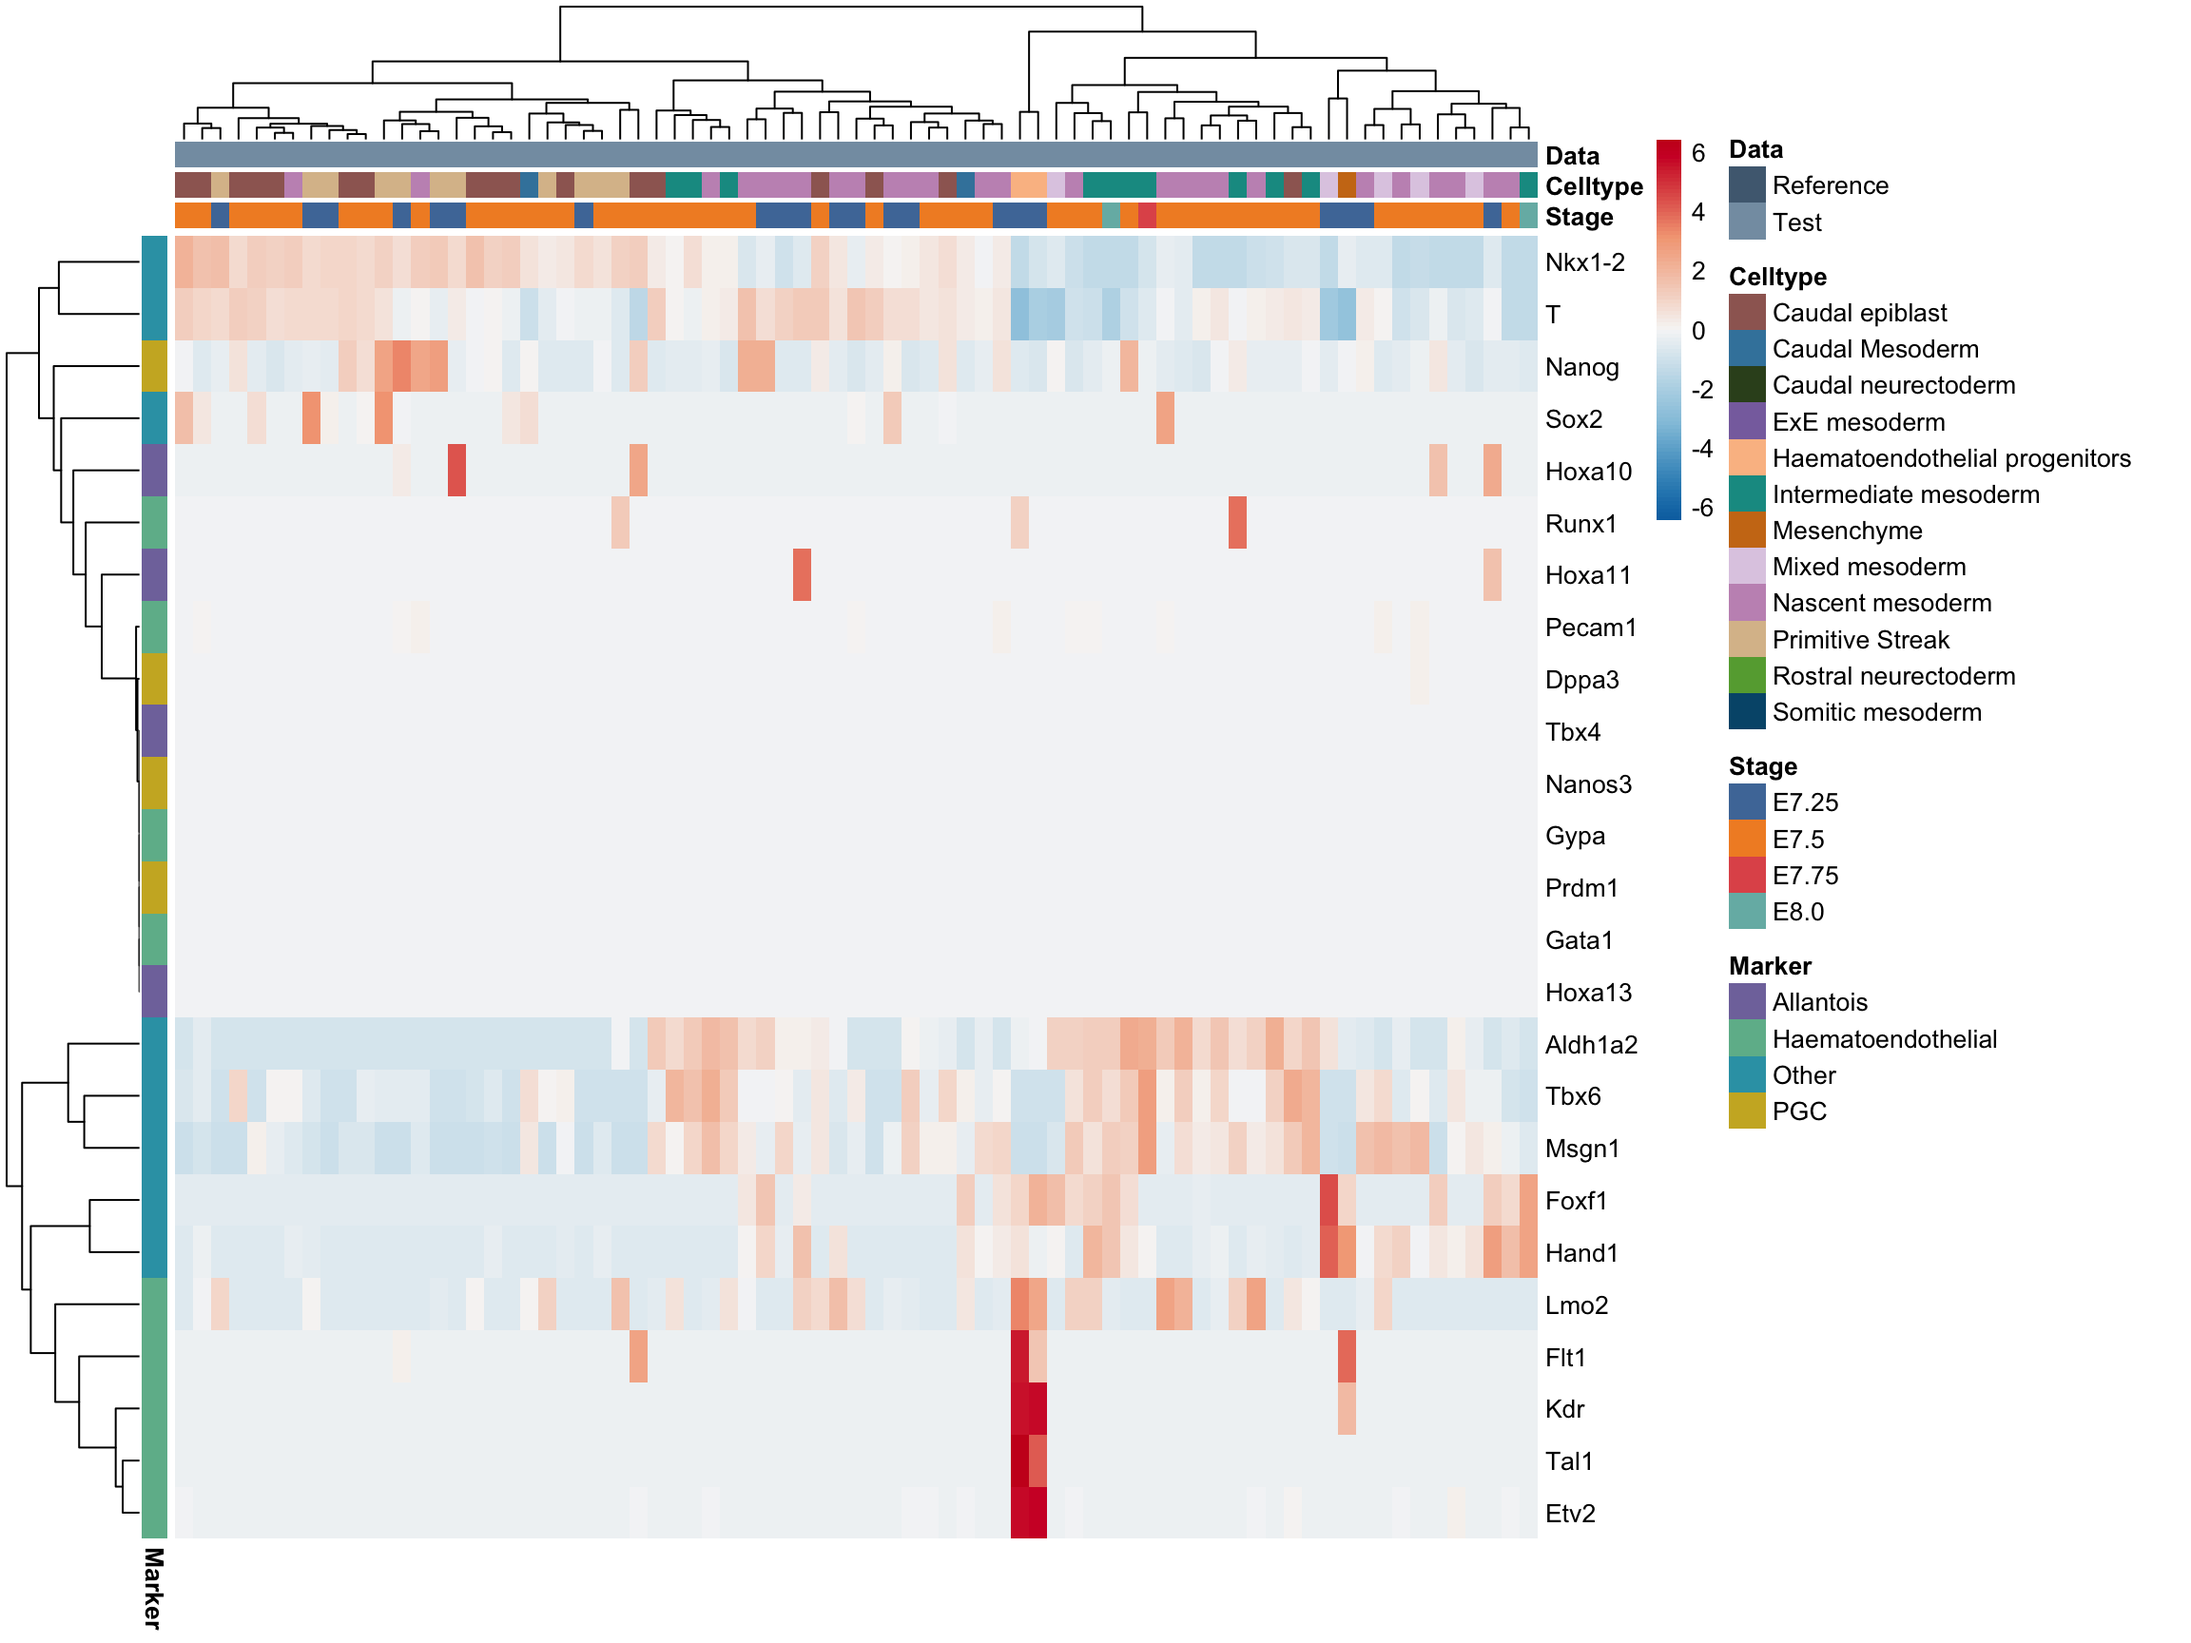
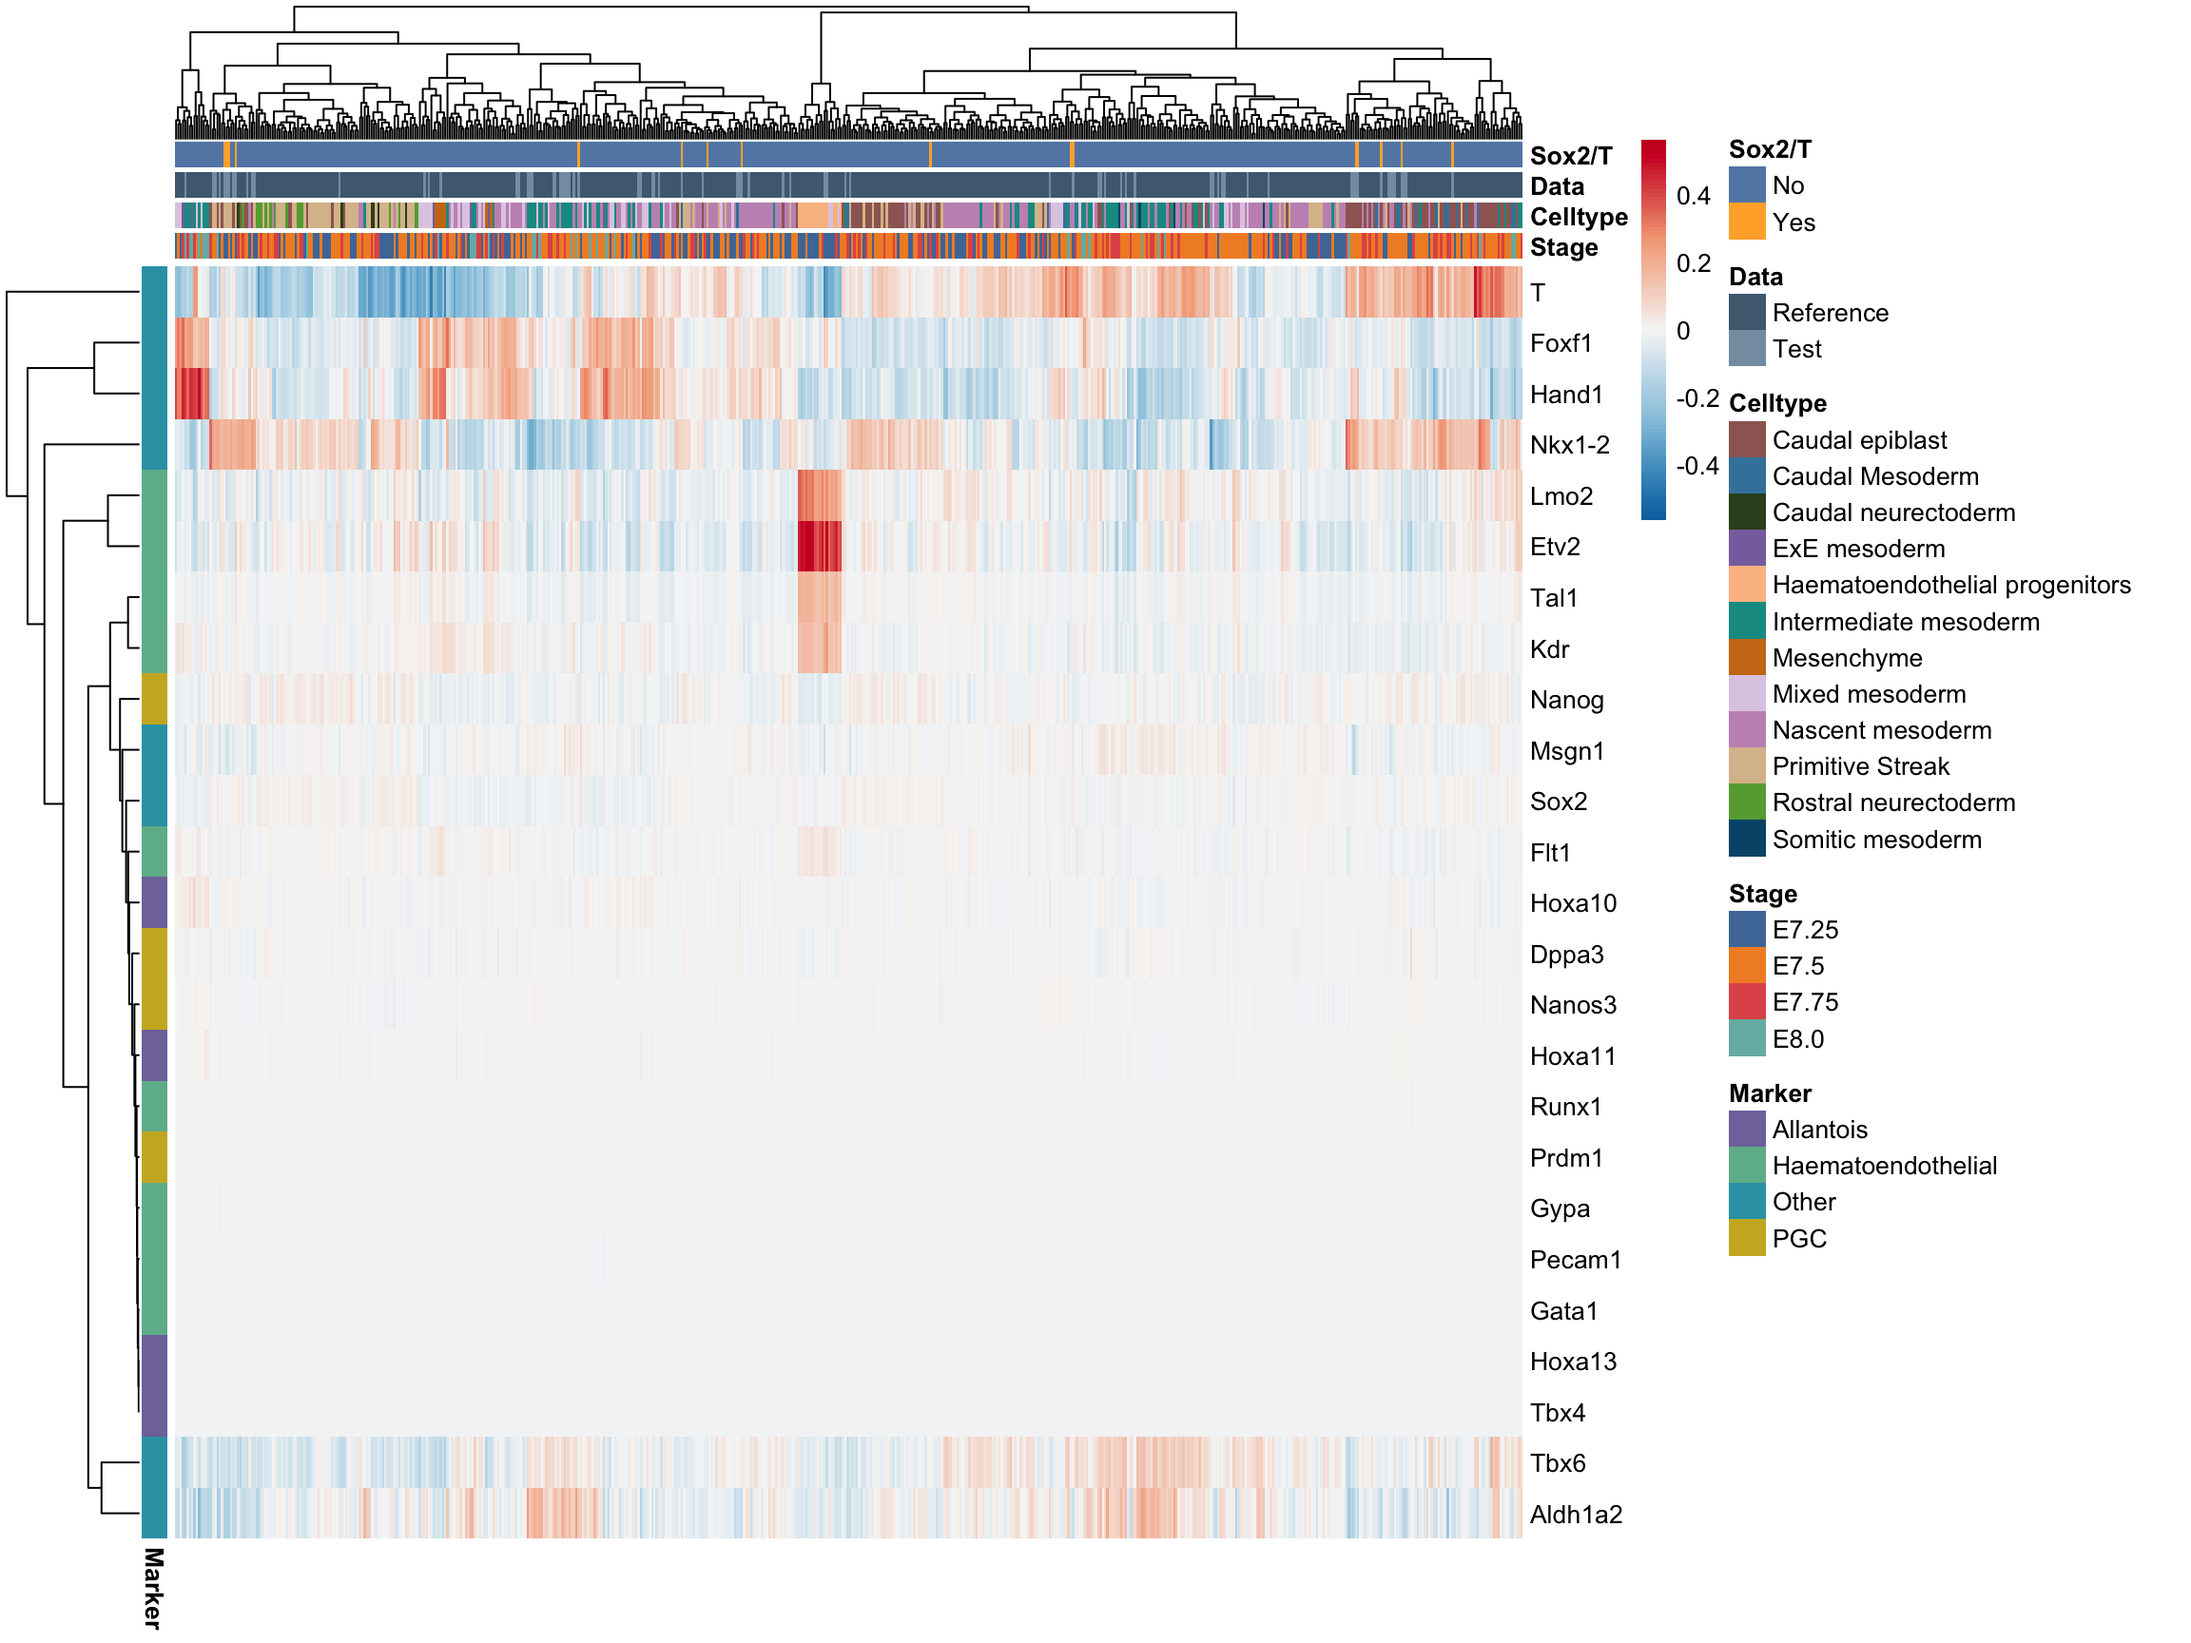
publish

diff --git a/docs/18-cell-exploration.html b/docs/18-cell-exploration.html
@@ -541,7 +541,7 @@ This reproducible <a href="http://rmarkdown.rstudio.com">R Markdown</a> analysis
 </div>
 <div id="strongRMarkdownfilestronguncommittedchanges" class="panel-collapse collapse">
 <div class="panel-body">
-<p>The R Markdown is untracked by Git. To know which version of the R Markdown file created these results, you’ll want to first commit it to the Git repo. If you’re still working on the analysis, you can ignore this warning. When you’re finished, you can run <code>wflow_publish</code> to commit the R Markdown file and build the HTML.</p>
+<p>The R Markdown file has unstaged changes. To know which version of the R Markdown file created these results, you’ll want to first commit it to the Git repo. If you’re still working on the analysis, you can ignore this warning. When you’re finished, you can run <code>wflow_publish</code> to commit the R Markdown file and build the HTML.</p>
 </div>
 </div>
 </div>
@@ -608,16 +608,16 @@ This reproducible <a href="http://rmarkdown.rstudio.com">R Markdown</a> analysis
 <div class="panel panel-default">
 <div class="panel-heading">
 <p class="panel-title">
-<a data-toggle="collapse" data-parent="#workflowr-checks" href="#strongRepositoryversionstrongahrefhttpsgithubcomjma1991LPMPEHFBtree8bfdc29f140ac08aa706d90e4b388072553cc25etargetblank8bfdc29a"> <span class="glyphicon glyphicon-ok text-success" aria-hidden="true"></span> <strong>Repository version:</strong> <a href="https://github.com/jma1991/LPMP_EHF_B/tree/8bfdc29f140ac08aa706d90e4b388072553cc25e" target="_blank">8bfdc29</a> </a>
+<a data-toggle="collapse" data-parent="#workflowr-checks" href="#strongRepositoryversionstrongahrefhttpsgithubcomjma1991LPMPEHFBtree453b8e88f80d8181a3e829414912113bb07f2bb6targetblank453b8e8a"> <span class="glyphicon glyphicon-ok text-success" aria-hidden="true"></span> <strong>Repository version:</strong> <a href="https://github.com/jma1991/LPMP_EHF_B/tree/453b8e88f80d8181a3e829414912113bb07f2bb6" target="_blank">453b8e8</a> </a>
 </p>
 </div>
[2 lines of base64/hex data omitted]
 <div class="panel-body">
 <p>
 Great! You are using Git for version control. Tracking code development and connecting the code version to the results is critical for reproducibility.
 </p>
 <p>
-The results in this page were generated with repository version <a href="https://github.com/jma1991/LPMP_EHF_B/tree/8bfdc29f140ac08aa706d90e4b388072553cc25e" target="_blank">8bfdc29</a>. See the <em>Past versions</em> tab to see a history of the changes made to the R Markdown and HTML files.
+The results in this page were generated with repository version <a href="https://github.com/jma1991/LPMP_EHF_B/tree/453b8e88f80d8181a3e829414912113bb07f2bb6" target="_blank">453b8e8</a>. See the <em>Past versions</em> tab to see a history of the changes made to the R Markdown and HTML files.
 </p>
 <p>
 Note that you need to be careful to ensure that all relevant files for the analysis have been committed to Git prior to generating the results (you can use <code>wflow_publish</code> or <code>wflow_git_commit</code>). workflowr only checks the R Markdown file, but you know if there are other scripts or data files that it depends on. Below is the status of the Git repository when the results were generated:
@@ -651,13 +651,8 @@ Ignored files:
     Ignored:    output/14-atlas-markers.rds
     Ignored:    shiny/
 
-Untracked files:
-    Untracked:  analysis/18-cell-exploration.Rmd
-
 Unstaged changes:
-    Modified:   _workflowr.R
-    Modified:   analysis/_site.yml
-    Modified:   analysis/interactive.Rmd
+    Modified:   analysis/18-cell-exploration.Rmd
 
 </code></pre>
 <p>
@@ -670,9 +665,69 @@ Note that any generated files, e.g. HTML, png, CSS, etc., are not included in t
 <hr>
 </div>
 <div id="versions" class="tab-pane fade">
+
 <p>
-There are no past versions. Publish this analysis with <code>wflow_publish()</code> to start tracking its development.
+These are the previous versions of the repository in which changes were made to the R Markdown (<code>analysis/18-cell-exploration.Rmd</code>) and HTML (<code>docs/18-cell-exploration.html</code>) files. If you’ve configured a remote Git repository (see <code>?wflow_git_remote</code>), click on the hyperlinks in the table below to view the files as they were in that past version.
 </p>
+<div class="table-responsive">
+<table class="table table-condensed table-hover">
+<thead>
+<tr>
+<th>
+File
+</th>
+<th>
+Version
+</th>
+<th>
+Author
+</th>
+<th>
+Date
+</th>
+<th>
+Message
+</th>
+</tr>
+</thead>
+<tbody>
+<tr>
+<td>
+Rmd
+</td>
+<td>
+<a href="https://github.com/jma1991/LPMP_EHF_B/blob/453b8e88f80d8181a3e829414912113bb07f2bb6/analysis/18-cell-exploration.Rmd" target="_blank">453b8e8</a>
+</td>
+<td>
+James Ashmore
+</td>
+<td>
+2020-10-13
+</td>
+<td>
+publish
+</td>
+</tr>
+<tr>
+<td>
+html
+</td>
+<td>
+<a href="https://rawcdn.githack.com/jma1991/LPMP_EHF_B/453b8e88f80d8181a3e829414912113bb07f2bb6/docs/18-cell-exploration.html" target="_blank">453b8e8</a>
+</td>
+<td>
+James Ashmore
+</td>
+<td>
+2020-10-13
+</td>
+<td>
+publish
+</td>
+</tr>
+</tbody>
+</table>
+</div>
 <hr>
 </div>
 </div>
@@ -727,6 +782,8 @@ EmbryoCelltypeColors &lt;- MouseGastrulationData::EmbryoCelltypeColours</code></
 <h2>Markers</h2>
 <p>Subset experiment object to required genes:</p>
 <pre class="r"><code>sce &lt;- sce[rowData(sce)$gene_name %in% ids$gene_name, ]</code></pre>
+<p>Identify Sox2 and T positive cells:</p>
+<pre class="r"><code>sce$double.positive &lt;- (counts(sce)[&quot;Sox2&quot;, ] &gt; 1) &amp; (counts(sce)[&quot;T&quot;, ] &gt; 1)</code></pre>
 <p>Create list of annotations to be displayed:</p>
 <pre class="r"><code>ann &lt;- list()</code></pre>
 <p>Define row annotations to be displayed:</p>
@@ -739,14 +796,17 @@ EmbryoCelltypeColors &lt;- MouseGastrulationData::EmbryoCelltypeColours</code></
   Stage = factor(sce$stage),
   Celltype = factor(sce$celltype),
   Data = factor(tools::toTitleCase(sce$source)),
-  row.names = colnames(sce)
+  `Sox2/T` = factor(ifelse(sce$double.positive == TRUE, &quot;Yes&quot;, &quot;No&quot;)),
+  row.names = colnames(sce),
+  check.names = FALSE
 )</code></pre>
 <p>Define colour palette for row and column annotations:</p>
 <pre class="r"><code>ann$annotation_colors &lt;- list(
   Marker = TableauColors(ann$annotation_row$Marker, palette = &quot;Nuriel Stone&quot;),
   Stage = TableauColors(ann$annotation_col$Stage, palette = &quot;Tableau 10&quot;),
   Celltype = EmbryoCelltypeColors[levels(ann$annotation_col$Celltype)],
-  Data = TableauColors(ann$annotation_col$Data, palette = &quot;Miller Stone&quot;)
+  Data = TableauColors(ann$annotation_col$Data, palette = &quot;Miller Stone&quot;),
+  `Sox2/T` = TableauColors(ann$annotation_col$`Sox2/T`, palette = &quot;Superfishel Stone&quot;)
 )</code></pre>
 <div id="lpmpatlas" class="section level3">
 <h3>LPMP/Atlas</h3>
@@ -763,7 +823,44 @@ pheatmap(
   annotation_colors = ann$annotation_colors,
   show_colnames = FALSE
 )</code></pre>
-<p><img src="figure/18-cell-exploration.Rmd/unnamed-chunk-15-1.png" width="1152" style="display: block; margin: auto;" /></p>
+<p><img src="figure/18-cell-exploration.Rmd/unnamed-chunk-16-1.png" width="1152" style="display: block; margin: auto;" /></p>
+<p>
+<button type="button" class="btn btn-default btn-xs btn-workflowr btn-workflowr-fig" data-toggle="collapse" data-target="#fig-unnamed-chunk-16-1">
+Past versions of unnamed-chunk-16-1.png
+</button>
+</p>
+<div id="fig-unnamed-chunk-16-1" class="collapse">
+<div class="table-responsive">
+<table class="table table-condensed table-hover">
+<thead>
+<tr>
+<th>
+Version
+</th>
+<th>
+Author
+</th>
+<th>
+Date
+</th>
+</tr>
+</thead>
+<tbody>
+<tr>
+<td>
+<a href="https://github.com/jma1991/LPMP_EHF_B/blob/453b8e88f80d8181a3e829414912113bb07f2bb6/docs/figure/18-cell-exploration.Rmd/unnamed-chunk-16-1.png" target="_blank">453b8e8</a>
+</td>
+<td>
+James Ashmore
+</td>
+<td>
+2020-10-13
+</td>
+</tr>
+</tbody>
+</table>
+</div>
+</div>
 </div>
 <div id="lpmp" class="section level3">
 <h3>LPMP</h3>
@@ -780,7 +877,44 @@ pheatmap(
   annotation_colors = ann$annotation_colors,
   show_colnames = FALSE
 )</code></pre>
-<p><img src="figure/18-cell-exploration.Rmd/unnamed-chunk-16-1.png" width="1152" style="display: block; margin: auto;" /></p>
+<p><img src="figure/18-cell-exploration.Rmd/unnamed-chunk-17-1.png" width="1152" style="display: block; margin: auto;" /></p>
+<p>
+<button type="button" class="btn btn-default btn-xs btn-workflowr btn-workflowr-fig" data-toggle="collapse" data-target="#fig-unnamed-chunk-17-1">
+Past versions of unnamed-chunk-17-1.png
+</button>
+</p>
+<div id="fig-unnamed-chunk-17-1" class="collapse">
+<div class="table-responsive">
+<table class="table table-condensed table-hover">
+<thead>
+<tr>
+<th>
+Version
+</th>
+<th>
+Author
+</th>
+<th>
+Date
+</th>
+</tr>
+</thead>
+<tbody>
+<tr>
+<td>
+<a href="https://github.com/jma1991/LPMP_EHF_B/blob/453b8e88f80d8181a3e829414912113bb07f2bb6/docs/figure/18-cell-exploration.Rmd/unnamed-chunk-17-1.png" target="_blank">453b8e8</a>
+</td>
+<td>
+James Ashmore
+</td>
+<td>
+2020-10-13
+</td>
+</tr>
+</tbody>
+</table>
+</div>
+</div>
 </div>
 <div id="atlas" class="section level3">
 <h3>Atlas</h3>
@@ -797,7 +931,7 @@ pheatmap(
   annotation_colors = ann$annotation_colors,
   show_colnames = FALSE
 )</code></pre>
-<p><img src="figure/18-cell-exploration.Rmd/unnamed-chunk-17-1.png" width="1152" style="display: block; margin: auto;" /></p>
+<p><img src="figure/18-cell-exploration.Rmd/unnamed-chunk-18-1.png" width="1152" style="display: block; margin: auto;" /></p>
 </div>
 </div>
 <div id="summary" class="section level2">
@@ -859,26 +993,27 @@ loaded via a namespace (and not attached):
 [47] Rcpp_1.0.5                    ggbeeswarm_0.6.0             
 [49] munsell_0.5.0                 viridis_0.5.1                
 [51] lifecycle_0.2.0               stringi_1.5.3                
-[53] yaml_2.2.1                    edgeR_3.30.3                 
-[55] zlibbioc_1.34.0               BiocFileCache_1.12.1         
-[57] MouseGastrulationData_1.2.0   AnnotationHub_2.20.2         
-[59] grid_4.0.2                    blob_1.2.1                   
-[61] promises_1.1.1                dqrng_0.2.1                  
-[63] ExperimentHub_1.14.2          crayon_1.3.4                 
-[65] lattice_0.20-41               locfit_1.5-9.4               
-[67] knitr_1.30                    pillar_1.4.6                 
-[69] igraph_1.2.5                  codetools_0.2-16             
-[71] glue_1.4.2                    BiocVersion_3.11.1           
-[73] evaluate_0.14                 BiocManager_1.30.10          
-[75] vctrs_0.3.4                   httpuv_1.5.4                 
-[77] gtable_0.3.0                  purrr_0.3.4                  
-[79] assertthat_0.2.1              xfun_0.18                    
-[81] mime_0.9                      rsvd_1.0.3                   
-[83] xtable_1.8-4                  later_1.1.0.1                
-[85] viridisLite_0.3.0             tibble_3.0.3                 
-[87] AnnotationDbi_1.50.3          beeswarm_0.2.3               
-[89] memoise_1.1.0                 statmod_1.4.34               
-[91] interactiveDisplayBase_1.26.3 ellipsis_0.3.1               </code></pre>
+[53] whisker_0.4                   yaml_2.2.1                   
+[55] edgeR_3.30.3                  zlibbioc_1.34.0              
+[57] BiocFileCache_1.12.1          MouseGastrulationData_1.2.0  
+[59] AnnotationHub_2.20.2          grid_4.0.2                   
+[61] blob_1.2.1                    promises_1.1.1               
+[63] dqrng_0.2.1                   ExperimentHub_1.14.2         
+[65] crayon_1.3.4                  lattice_0.20-41              
+[67] locfit_1.5-9.4                knitr_1.30                   
+[69] pillar_1.4.6                  igraph_1.2.5                 
+[71] codetools_0.2-16              BiocVersion_3.11.1           
+[73] glue_1.4.2                    evaluate_0.14                
+[75] BiocManager_1.30.10           vctrs_0.3.4                  
+[77] httpuv_1.5.4                  gtable_0.3.0                 
+[79] purrr_0.3.4                   assertthat_0.2.1             
+[81] xfun_0.18                     mime_0.9                     
+[83] rsvd_1.0.3                    xtable_1.8-4                 
+[85] later_1.1.0.1                 viridisLite_0.3.0            
+[87] tibble_3.0.3                  AnnotationDbi_1.50.3         
+[89] memoise_1.1.0                 beeswarm_0.2.3               
+[91] statmod_1.4.34                interactiveDisplayBase_1.26.3
+[93] ellipsis_0.3.1               </code></pre>
 </div>
 
 
